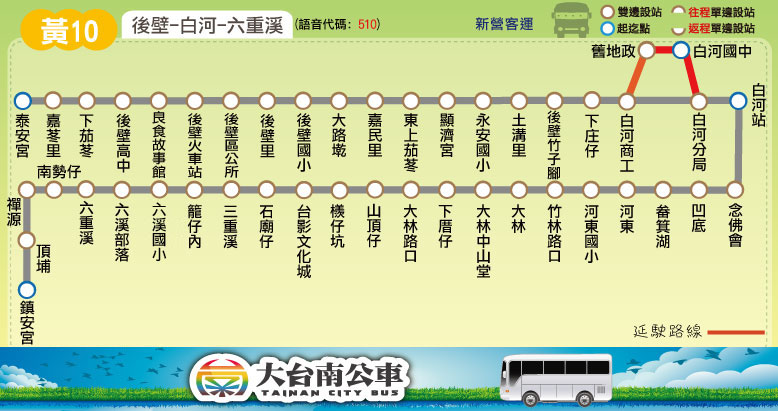
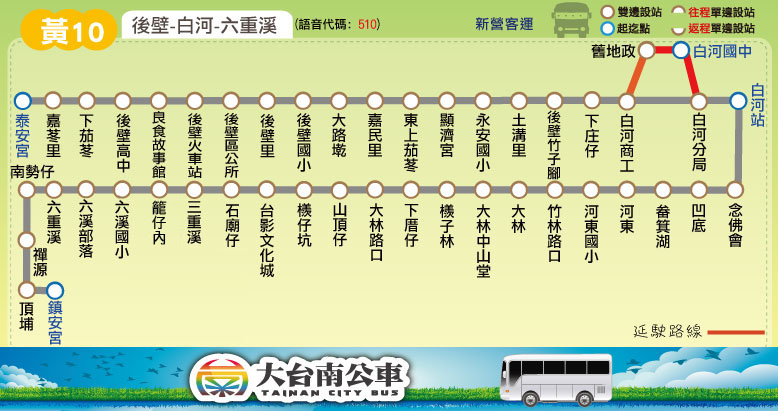
新增站位：黃10、黃10-1(增「檨子林」)

diff --git a/yellow/yellow_10-1.html b/yellow/yellow_10-1.html
@@ -20,8 +20,7 @@
 	block_route_map(null);
 	block_route_info(route_interval,'新營客運','','里程計費','http://www.2384.com.tw/ebus/jsp/ajaxBus.jsp?pathId=1510&locale=zh_TW');
 	block_fare(0, null);
-	block_time_schedule('白河','檳榔腳','<p>「南勢仔」、「頂埔」、「鎮安宮」、「六戶仔」、「崁下仔」、「檳榔腳」、「石牌」為單邊設站</p>\
-		<p><span style="color: darkblue;">考量該路線道路較為狹窄及維護人、車安全因素，將以九人座小巴提供行駛服務</span></p>');
+	block_time_schedule('白河','檳榔腳','<span style="color: darkblue;">考量本路線道路較為狹窄及為維護人、車安全因素，將以九人座小巴提供行駛服務</span>');
 	block_transfer(transfer_baihe + transfer_nianfohui);
 	block_copyright();
 </script>

diff --git a/route/fare_and_time/yellow_10.js b/route/fare_and_time/yellow_10.js
@@ -7,7 +7,7 @@ yellow_10_interval_stop = [ // 2017.06.13 checked
 ["土溝里","後壁竹子腳","下庄仔"], // 土溝里
 ["白河商工","舊地政","白河國中","白河分局","白河站","念佛會"], // 白河
 ["凹底","畚箕湖","河東","河東國小"], // 河東
-["竹林路口","大林","大林中山堂","下厝仔"], // 大林
+["竹林路口","大林","大林中山堂","檨子林","下厝仔"], // 大林
 ["大林路口","山頂仔"], // 大林路口
 ["檨仔坑","台影文化城"], // 檨仔坑
 ["石廟仔"], // 石廟仔
